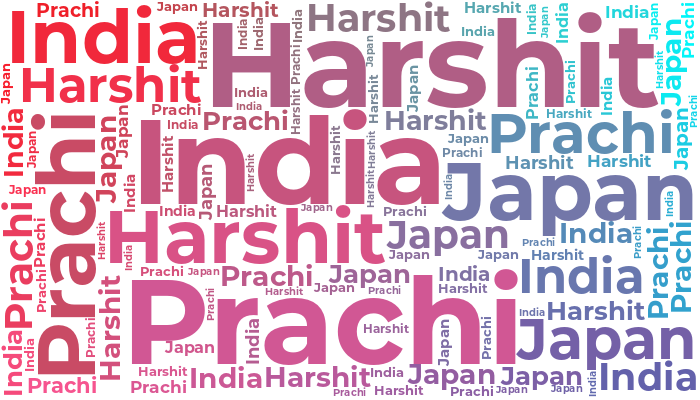
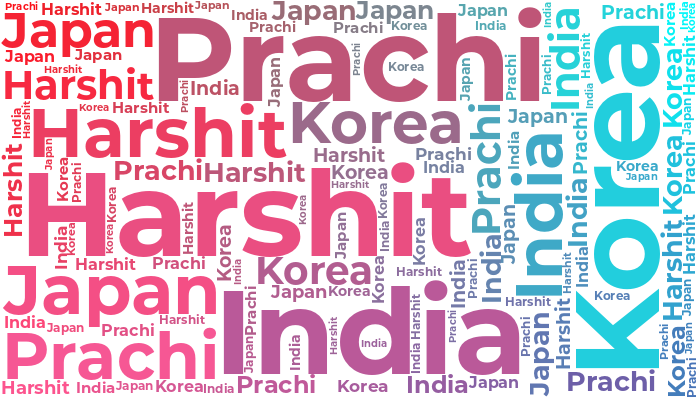
@Prachiofficial added 'Korea' to the Word Cloud

diff --git a/README.md b/README.md
@@ -39,7 +39,7 @@ A new word cloud will be automatically generated when you [add your own word](ht
 
 <img src="https://raw.githubusercontent.com/Prachiofficial/Prachiofficial/master/wordcloud/wordcloud.png" alt="WordCloud" width="100%">
 
-![Word Cloud Words Badge](https://img.shields.io/badge/Words%20in%20this%20Cloud-7-informational?labelColor=7D898B)
+![Word Cloud Words Badge](https://img.shields.io/badge/Words%20in%20this%20Cloud-8-informational?labelColor=7D898B)
 ![Word Cloud Contributors Badge](https://img.shields.io/badge/Contributors%20this%20Cloud-2-blueviolet?labelColor=7D898B)
 
 [![Github Badge](https://img.shields.io/badge/-@Prachiofficial-24292e?style=flat&logo=Github&logoColor=white&link=https://github.com/Prachiofficial)](https://github.com/Prachiofficial) [![Github Badge](https://img.shields.io/badge/-@HarshitKumar9030-24292e?style=flat&logo=Github&logoColor=white&link=https://github.com/HarshitKumar9030)](https://github.com/HarshitKumar9030) 
